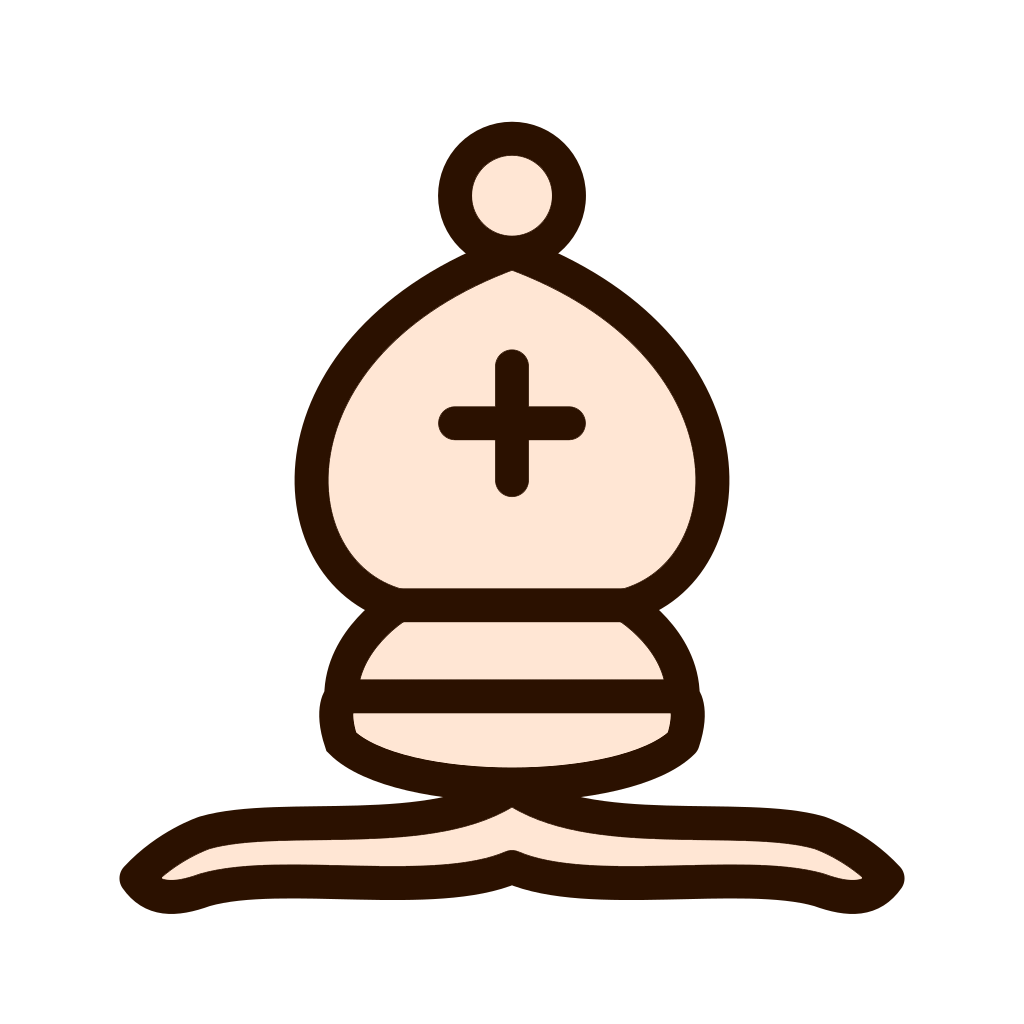
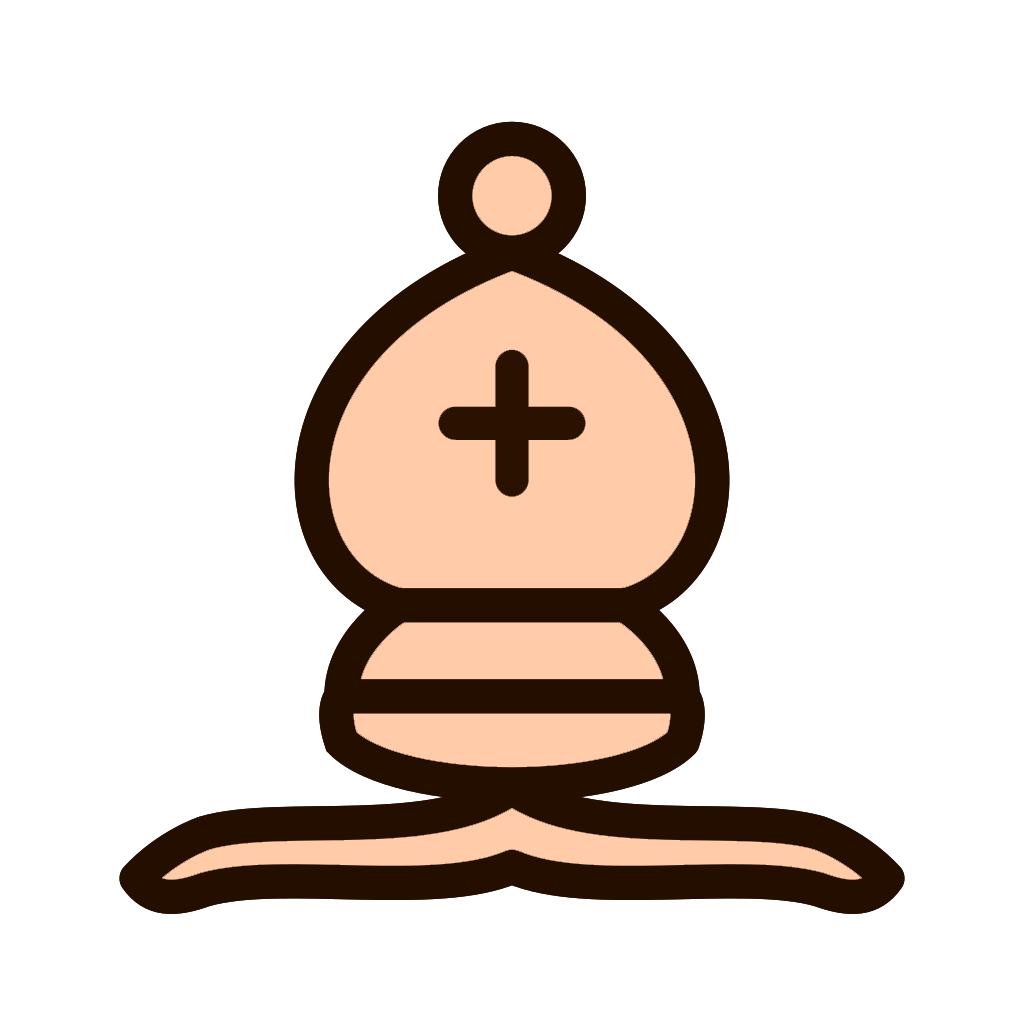
style: adjust imgs colors to match ui theme 🦚

Changed region(s): [[0.3125, 0.1562, 0.6875, 0.75], [0.1562, 0.7812, 0.8438, 0.875]]

diff --git a/CoffeeChess.Web/wwwroot/css/site.css b/CoffeeChess.Web/wwwroot/css/site.css
@@ -15,10 +15,10 @@
     --dark-coffee: #2b1100;
     --milk-coffee-unselected: #af876d;
     --dark-coffee-unselected: #95735d;
-    --milk-coffee-chess-square: rgb(255, 214, 186);
+    --milk-coffee-chess-square: rgb(255, 203, 168);
     --dark-coffee-chess-square: rgb(171, 129, 99);
-    --milk-coffee-chess-square-highlighted: #e1b799;
-    --dark-coffee-chess-square-highlighted: #d1a281;
+    --milk-coffee-chess-square-highlighted: #d7a989;
+    --dark-coffee-chess-square-highlighted: #9a7358;
 }
 
 html, 
